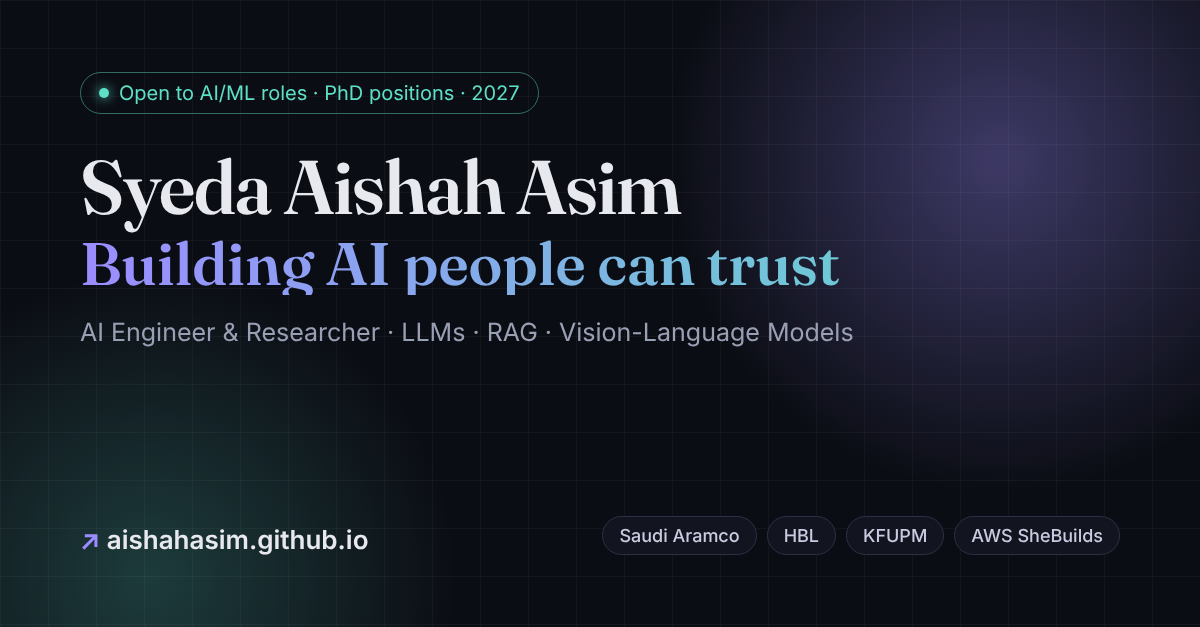
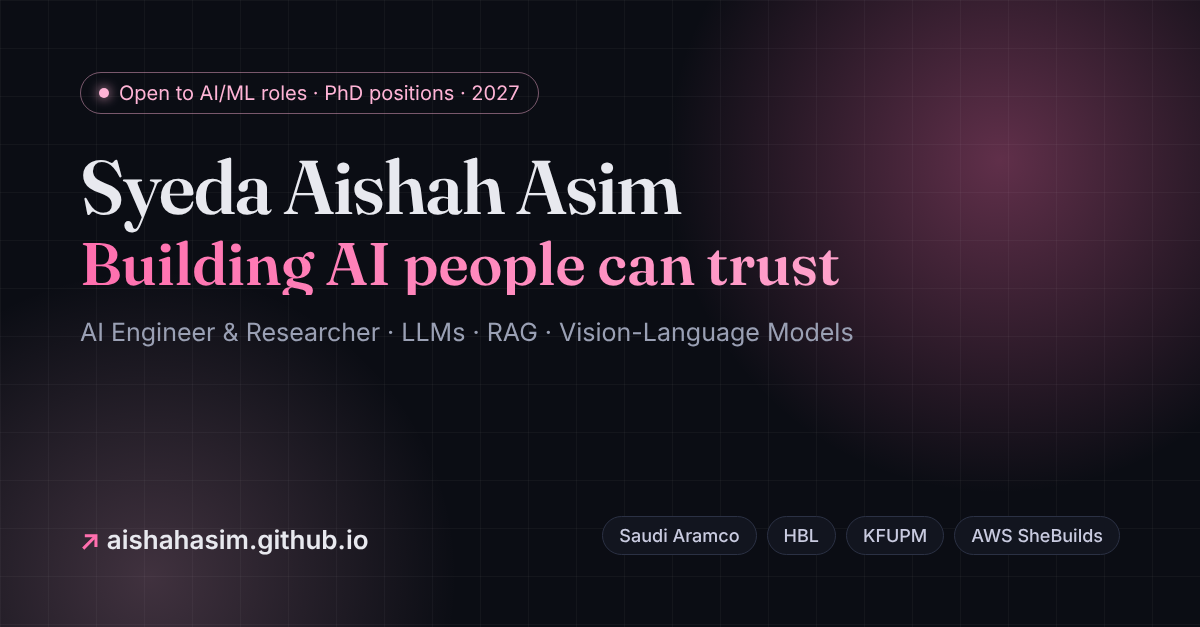
Switch to pink theme
Claude-Session: https://claude.ai/code/session_01QY68b1qpF5NPWGXP1QkiaH

diff --git a/index.html b/index.html
@@ -16,20 +16,20 @@
 <link rel="preconnect" href="https://fonts.gstatic.com" crossorigin>
 <link href="https://fonts.googleapis.com/css2?family=Fraunces:opsz,wght@9..144,400;9..144,600&family=Inter:wght@400;500;600&display=swap" rel="stylesheet">
 <style>
-:root{--bg:#0b0d14;--panel:#12151f;--panel2:#161a26;--line:#232838;--text:#e8e9ef;--muted:#9aa0b4;--accent:#9b8cff;--accent2:#5ee0c6;--warm:#ffb38a}
+:root{--bg:#0b0d14;--panel:#12151f;--panel2:#161a26;--line:#232838;--text:#e8e9ef;--muted:#9aa0b4;--accent:#ff6fae;--accent2:#ffb4d6;--warm:#ffcf9e}
 *{box-sizing:border-box;margin:0;padding:0}
 html{scroll-behavior:smooth}
 body{background:var(--bg);color:var(--text);font:16px/1.65 Inter,system-ui,sans-serif;-webkit-font-smoothing:antialiased}
 a{color:var(--accent);text-decoration:none}a:hover{text-decoration:underline}
-.glow{position:fixed;inset:-20% -10% auto auto;width:60vw;height:60vw;background:radial-gradient(circle,rgba(155,140,255,.18),transparent 60%);filter:blur(40px);pointer-events:none;z-index:0}
-.glow.b{inset:auto auto -25% -15%;background:radial-gradient(circle,rgba(94,224,198,.12),transparent 60%)}
+.glow{position:fixed;inset:-20% -10% auto auto;width:60vw;height:60vw;background:radial-gradient(circle,rgba(255,111,174,.18),transparent 60%);filter:blur(40px);pointer-events:none;z-index:0}
+.glow.b{inset:auto auto -25% -15%;background:radial-gradient(circle,rgba(255,180,214,.12),transparent 60%)}
 nav{position:sticky;top:0;z-index:10;backdrop-filter:blur(12px);background:rgba(11,13,20,.75);border-bottom:1px solid var(--line)}
 nav .in{max-width:1080px;margin:auto;display:flex;justify-content:space-between;align-items:center;padding:14px 24px}
 nav .logo{font-family:Fraunces,serif;font-weight:600;color:var(--text)}
 nav ul{display:flex;gap:20px;list-style:none;font-size:14px}nav ul a{color:var(--muted)}nav ul a:hover{color:var(--text);text-decoration:none}
 main{position:relative;z-index:1;max-width:1080px;margin:auto;padding:0 24px}
 .hero{padding:100px 0 60px}
-.tag{display:inline-flex;align-items:center;gap:8px;font-size:13px;color:var(--accent2);border:1px solid rgba(94,224,198,.35);padding:5px 13px;border-radius:99px;margin-bottom:24px}
+.tag{display:inline-flex;align-items:center;gap:8px;font-size:13px;color:var(--accent2);border:1px solid rgba(255,180,214,.35);padding:5px 13px;border-radius:99px;margin-bottom:24px}
 .tag i{width:8px;height:8px;border-radius:50%;background:var(--accent2);box-shadow:0 0 10px var(--accent2)}
 h1{font-family:Fraunces,serif;font-weight:600;font-size:clamp(40px,7vw,74px);line-height:1.04;letter-spacing:-.02em}
 h1 span{background:linear-gradient(90deg,var(--accent),var(--accent2));-webkit-background-clip:text;background-clip:text;color:transparent}
@@ -37,7 +37,7 @@ h1 span{background:linear-gradient(90deg,var(--accent),var(--accent2));-webkit-b
 .lead b{color:var(--text);font-weight:500}
 .btns{display:flex;flex-wrap:wrap;gap:12px}
 .btn{padding:11px 20px;border-radius:10px;border:1px solid var(--line);color:var(--text);font-size:15px;font-weight:500;background:var(--panel);transition:.15s}
-.btn.p{background:linear-gradient(90deg,var(--accent),#7b6cf0);border:0;color:#0b0d14}
+.btn.p{background:linear-gradient(90deg,var(--accent),#e8508f);border:0;color:#0b0d14}
 .btn:hover{text-decoration:none;transform:translateY(-1px);border-color:var(--accent)}
 .strip{display:grid;grid-template-columns:repeat(auto-fit,minmax(170px,1fr));gap:1px;background:var(--line);border:1px solid var(--line);border-radius:16px;overflow:hidden;margin:56px 0 10px}
 .strip div{background:var(--panel);padding:22px}
@@ -50,10 +50,10 @@ h2{font-family:Fraunces,serif;font-weight:600;font-size:clamp(28px,4vw,38px);lin
 .grid{display:grid;grid-template-columns:repeat(auto-fit,minmax(300px,1fr));gap:18px}
 .g3{grid-template-columns:repeat(auto-fit,minmax(260px,1fr))}
 .card{background:var(--panel);border:1px solid var(--line);border-radius:16px;padding:26px;transition:.2s;display:flex;flex-direction:column}
-.card:hover{border-color:rgba(155,140,255,.5);transform:translateY(-2px)}
+.card:hover{border-color:rgba(255,111,174,.5);transform:translateY(-2px)}
 .card h3{font-size:18px;margin-bottom:8px;line-height:1.35}
 .card p{color:var(--muted);font-size:15px}
-.ico{width:42px;height:42px;border-radius:12px;display:grid;place-items:center;font-size:20px;margin-bottom:16px;background:rgba(155,140,255,.14)}
+.ico{width:42px;height:42px;border-radius:12px;display:grid;place-items:center;font-size:20px;margin-bottom:16px;background:rgba(255,111,174,.14)}
 .meta{font-size:13px;color:var(--accent2);margin-bottom:10px}
 .tags{display:flex;flex-wrap:wrap;gap:6px;margin-top:auto;padding-top:16px}
 .tags span{font-size:12px;padding:3px 10px;border-radius:99px;background:var(--panel2);border:1px solid var(--line);color:var(--muted)}
@@ -61,7 +61,7 @@ h2{font-family:Fraunces,serif;font-weight:600;font-size:clamp(28px,4vw,38px);lin
 .stat b{display:block;font-family:Fraunces,serif;font-size:26px;color:var(--text)}
 .stat span{font-size:12px;color:var(--muted)}
 .label{display:inline-block;font-size:11px;font-weight:600;letter-spacing:.06em;text-transform:uppercase;padding:3px 9px;border-radius:6px;margin-bottom:12px}
-.l-ind{background:rgba(255,179,138,.14);color:var(--warm)}.l-res{background:rgba(155,140,255,.15);color:var(--accent)}
+.l-ind{background:rgba(255,179,138,.14);color:var(--warm)}.l-res{background:rgba(255,111,174,.15);color:var(--accent)}
 .tl{position:relative;padding-left:28px}
 .tl:before{content:"";position:absolute;left:5px;top:6px;bottom:6px;width:2px;background:linear-gradient(var(--accent),var(--accent2))}
 .item{position:relative;margin-bottom:32px}
@@ -70,7 +70,7 @@ h2{font-family:Fraunces,serif;font-weight:600;font-size:clamp(28px,4vw,38px);lin
 .pub{padding:22px 0;border-bottom:1px solid var(--line)}.pub:last-child{border:0}
 .pub h3{font-size:18px;font-weight:600;margin-bottom:4px}
 .pub .a{color:var(--muted);font-size:15px}.pub .a b{color:var(--text)}
-.pill{display:inline-block;font-size:12px;padding:2px 10px;border-radius:99px;background:rgba(155,140,255,.15);color:var(--accent);margin-top:8px;margin-right:6px}
+.pill{display:inline-block;font-size:12px;padding:2px 10px;border-radius:99px;background:rgba(255,111,174,.15);color:var(--accent);margin-top:8px;margin-right:6px}
 .story{display:grid;grid-template-columns:1.2fr 1fr;gap:48px;align-items:start}
 .story p{color:var(--muted);margin-bottom:16px;font-size:17px}.story p b{color:var(--text);font-weight:500}
 .quote{font-family:Fraunces,serif;font-size:24px;line-height:1.35;border-left:3px solid var(--accent);padding-left:20px;color:var(--text)}
@@ -79,7 +79,7 @@ h2{font-family:Fraunces,serif;font-weight:600;font-size:clamp(28px,4vw,38px);lin
 .skills{display:grid;grid-template-columns:repeat(auto-fit,minmax(240px,1fr));gap:24px}
 .skills h4{font-size:14px;color:var(--text);margin-bottom:10px}
 ul.plain{list-style:none}ul.plain li{padding:11px 0;border-bottom:1px solid var(--line);color:var(--muted);font-size:15px}ul.plain li b{color:var(--text);font-weight:500}
-.cta{background:linear-gradient(135deg,rgba(155,140,255,.16),rgba(94,224,198,.10));border:1px solid var(--line);border-radius:22px;padding:48px;text-align:center}
+.cta{background:linear-gradient(135deg,rgba(255,111,174,.16),rgba(255,180,214,.10));border:1px solid var(--line);border-radius:22px;padding:48px;text-align:center}
 .cta h2{margin-bottom:12px}.cta p{color:var(--muted);max-width:640px;margin:0 auto 26px}
 .cta .btns{justify-content:center}
 footer{text-align:center;color:var(--muted);font-size:14px;padding:40px 0 60px}
